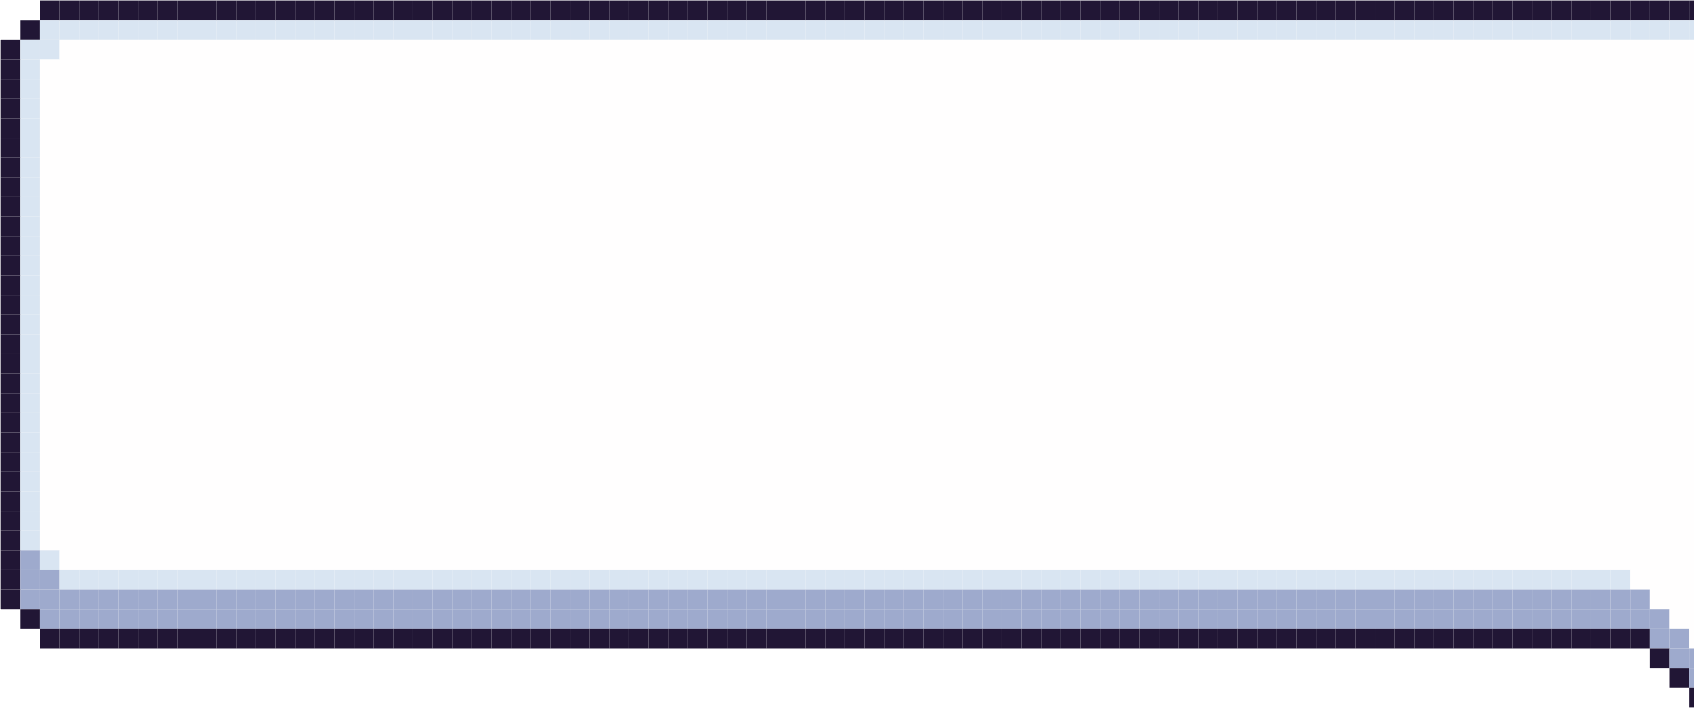
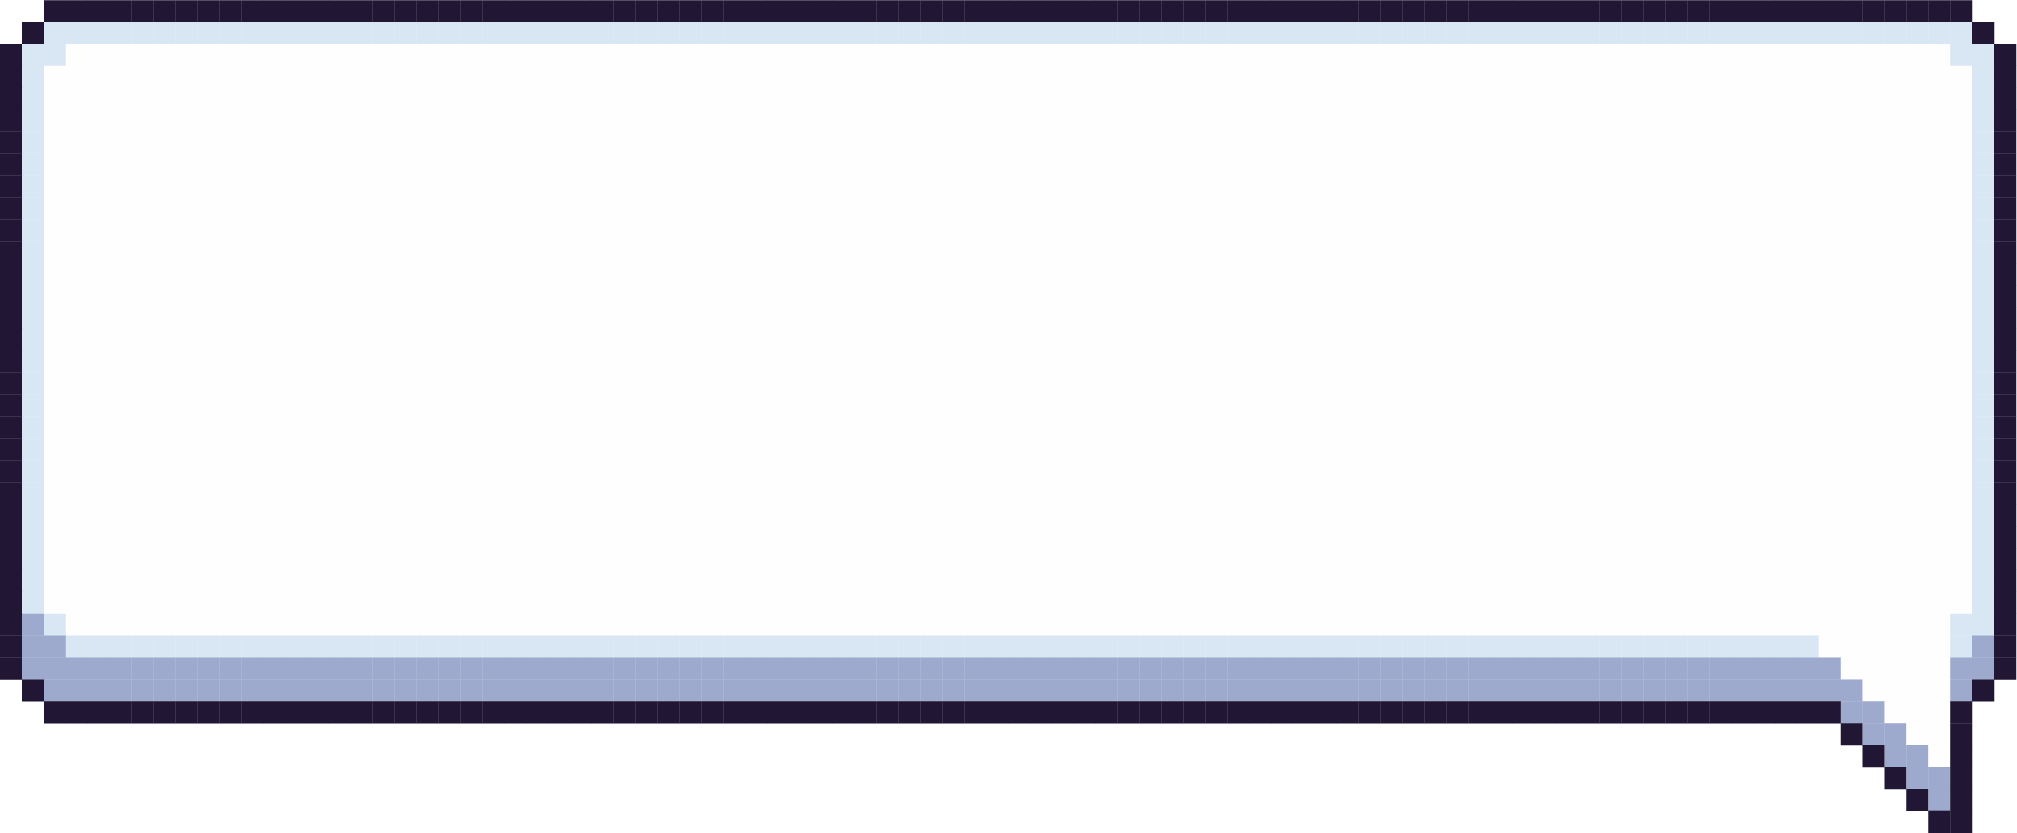
tweak: pull speech bubble tight to the character (spacing -30 -> -70)

Changed region(s): [[0.0, 0.0, 1.0, 1.0]]

diff --git a/mac-app/Sources/SpendingAngel/CatchView.swift b/mac-app/Sources/SpendingAngel/CatchView.swift
@@ -31,12 +31,12 @@ struct CatchView: View {
         ZStack(alignment: .topTrailing) {
             Color.black.opacity(0.001).ignoresSafeArea()
 
-            HStack(alignment: .top, spacing: -30) {     // bubble way closer to the character
+            HStack(alignment: .top, spacing: -70) {     // bubble tight to the character
                 bubble
                 character
             }
             .padding(.top, 70)
-            .padding(.trailing, 20)                       // 8px further right
+            .padding(.trailing, 20)
             .rotationEffect(.degrees(animated ? 0 : -3))
             .scaleEffect((model.visible || animated) ? 1 : 0.6)
             .offset(x: animated ? 0 : (model.visible ? 0 : 520))   // animated = no slide